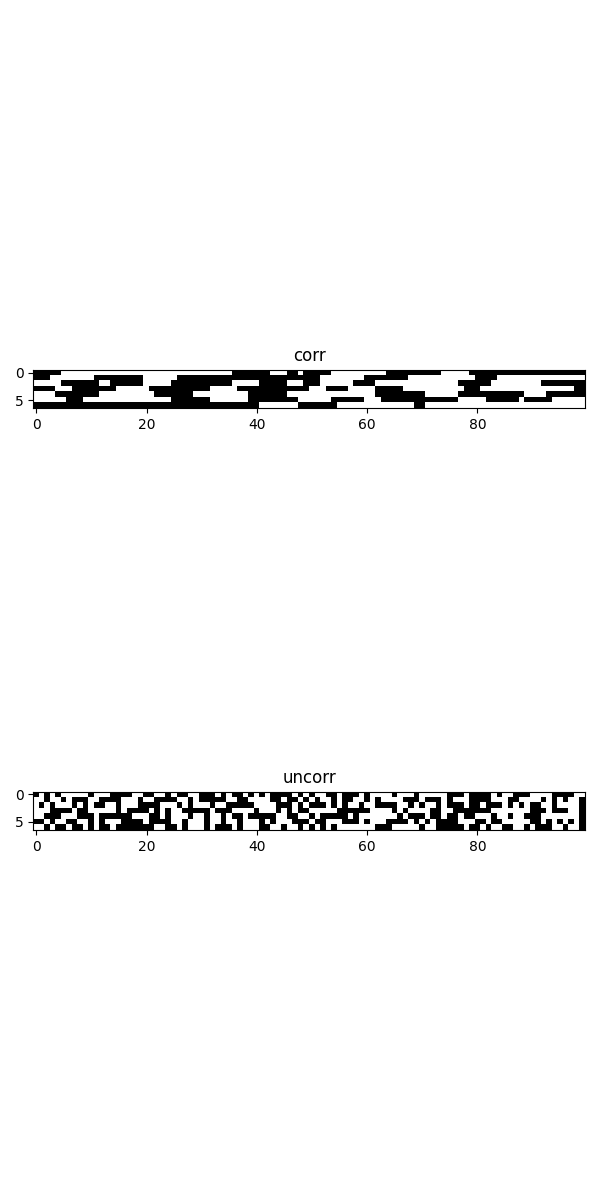
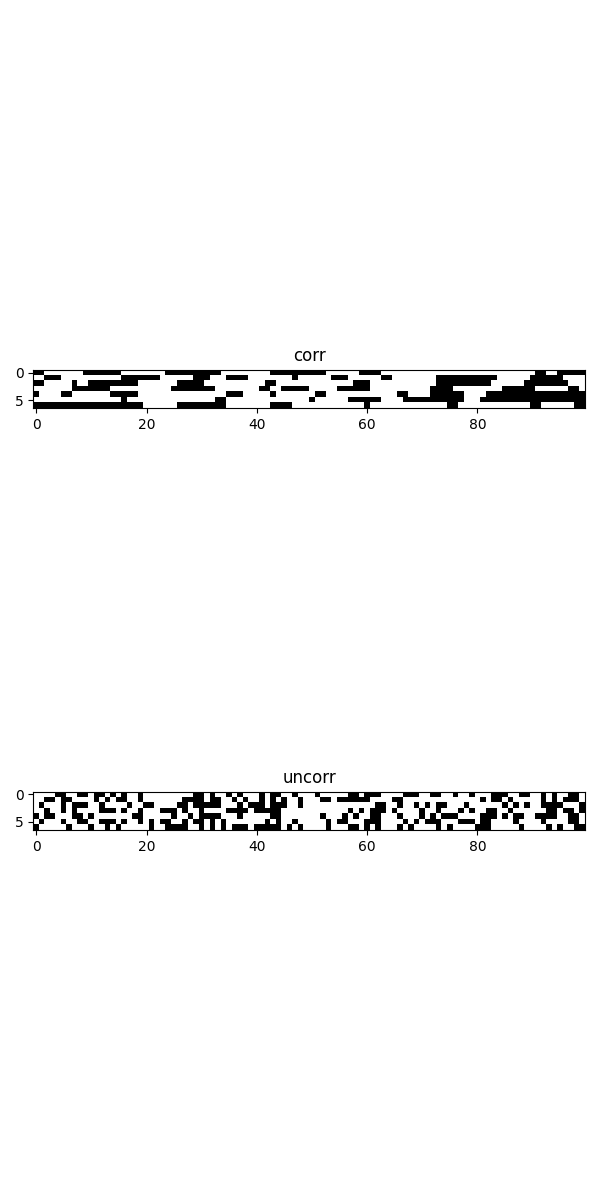
Added gaussian_process avail

Changed region(s): [[0.06, 0.6475, 0.99, 0.7092], [0.06, 0.3083, 0.99, 0.3392]]

diff --git a/building_availability_matrices/gaussian_process_models/utils.py b/building_availability_matrices/gaussian_process_models/utils.py
@@ -58,7 +58,8 @@ def exp1(freq0, seq_len=100, n_clients=NO_CLIENTS):
     #     .numpy()
     # )
 
-    # Mixed kernel function
+    assert 0<=freq0<=1
+    
     def _get_avail_mat(
         periodic_length_scale=1.0,
         period=1.0,
@@ -81,7 +82,7 @@ def exp1(freq0, seq_len=100, n_clients=NO_CLIENTS):
         y = np.random.multivariate_normal(
             mean=np.zeros(seq_len), cov=cov, size=n_clients
         )
-        thresh = np.quantile(y, [0.5], method="higher", axis=1).T
+        thresh = np.quantile(y, [freq0], method="higher", axis=1).T
         y_bin = (y >= thresh).astype(np.int8)
 
         for _ in range(n_clients):

diff --git a/building_availability_matrices/gp_avail_mat.py b/building_availability_matrices/gp_avail_mat.py
@@ -3,7 +3,7 @@ import pickle
 from building_availability_matrices.gaussian_process_models.utils import exp1
 
 
-res = exp1(freq0=0.8)
+res = exp1(freq0=0.6)
 
 with open("gp_avail_mat.pkl", "wb") as f:
     pickle.dump(res, f, protocol=pickle.HIGHEST_PROTOCOL)
